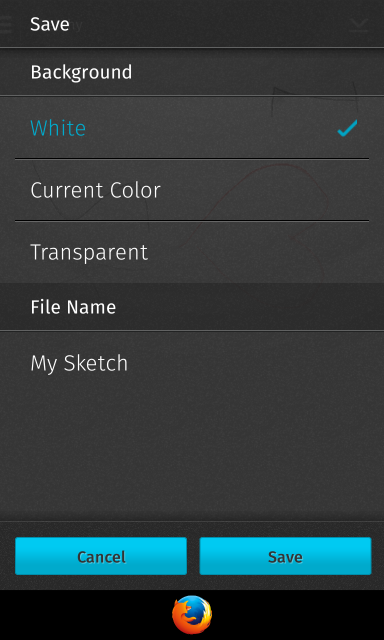
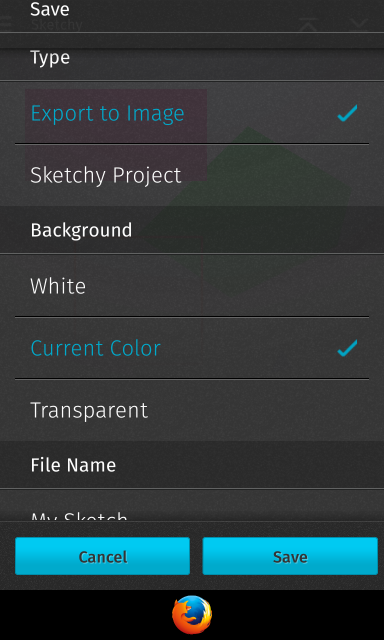
Fixed cancel button not working (Single select)

diff --git a/Mobile/js/mobile.js b/Mobile/js/mobile.js
@@ -200,9 +200,9 @@ window.load = function() {
     }
     $(this).parents('form').addClass('hidden');
   })
-  $single.submit(function(e) {
+  $single.find('button').tap(function(e) {
     e.preventDefault();
-    $(this).addClass('hidden');
+    $(this).parents('form').addClass('hidden');
   })
 
   // Confirm
